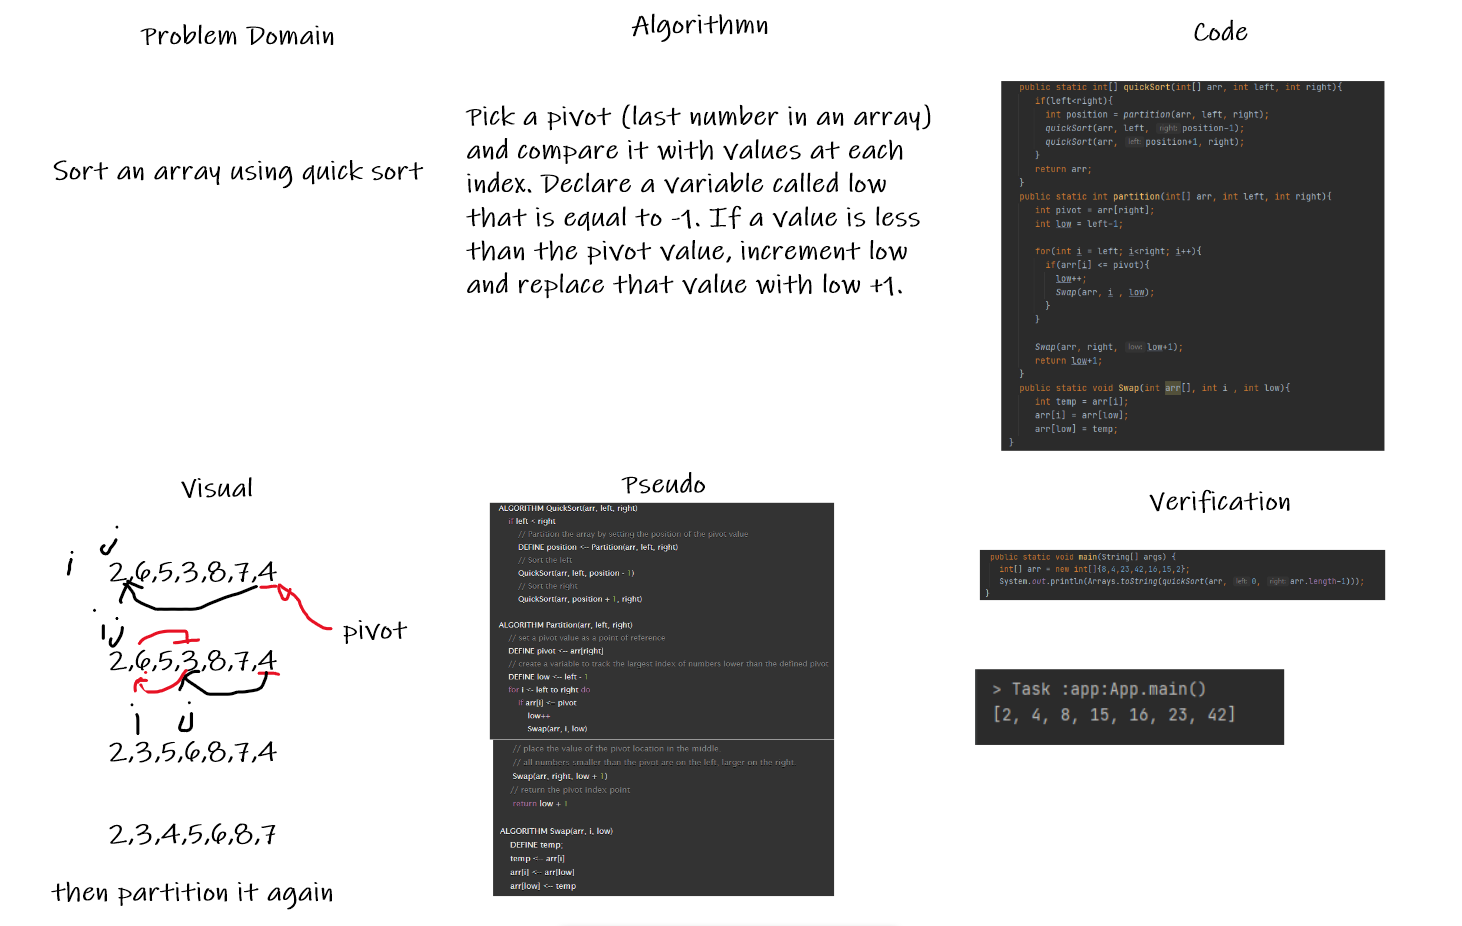
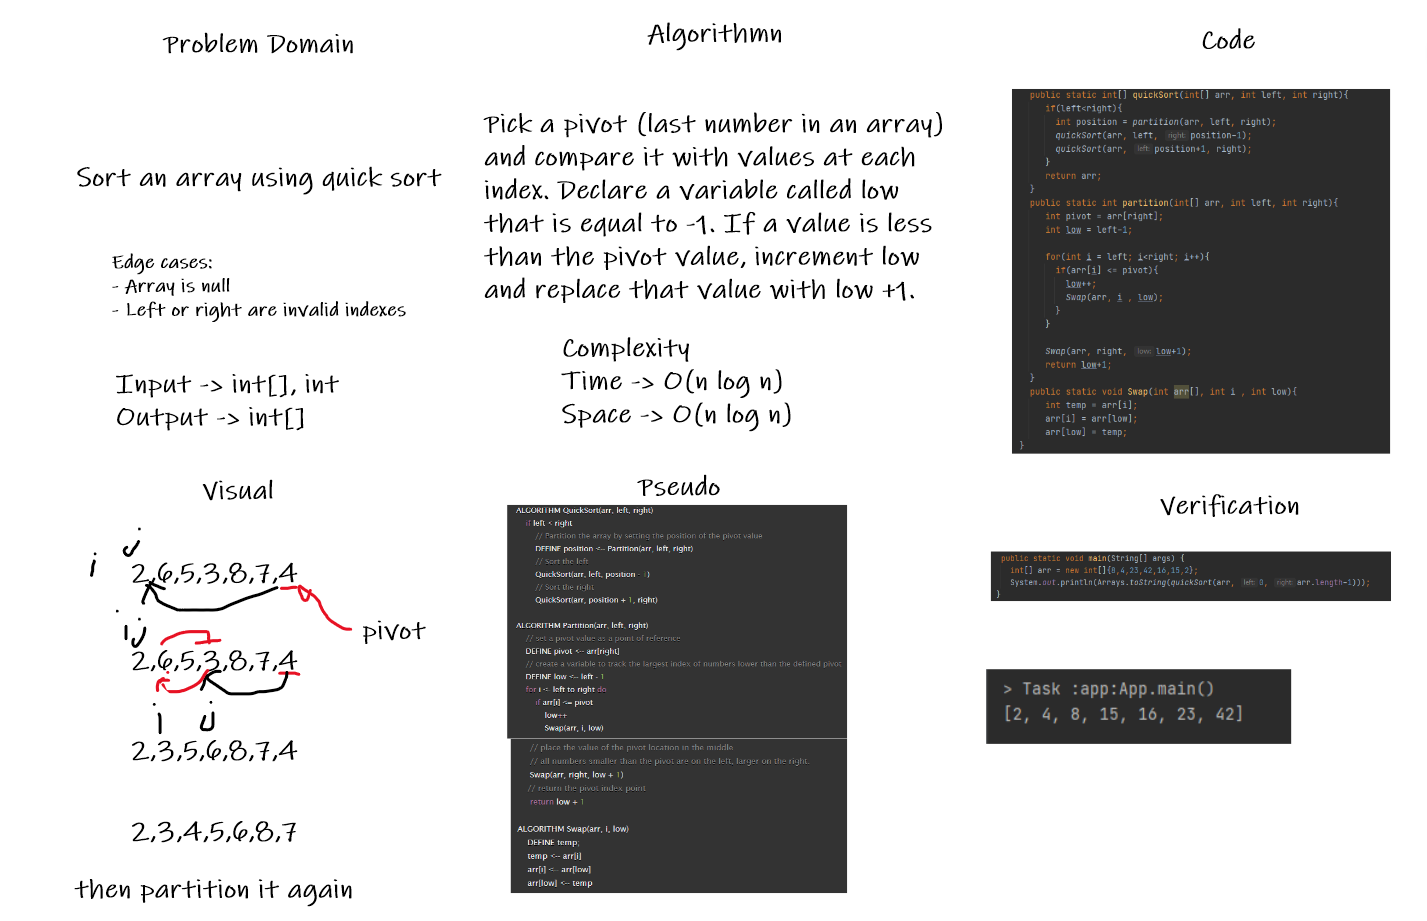
updated readme file, update whiteboard, and added blog

diff --git a/blogs/code-challenge-28/BLOG-28.md b/blogs/code-challenge-28/BLOG-28.md
@@ -1,0 +1,64 @@
+# Quick Sort
+
+Quick sort is a divide-and-conquer algorithmn. First, a pivot is selected (usually last value in an array), then the array is partitioned into two subarrays where the left subarray where the left subarray must contain values less than the pivot and right subarray must contain values greater than the pivot
+
+Pseudocode
+
+        ALGORITHM QuickSort(arr, left, right)
+            if left < right
+                // Partition the array by setting the position of the pivot value 
+                DEFINE position <-- Partition(arr, left, right)
+                // Sort the left
+                QuickSort(arr, left, position - 1)
+                // Sort the right
+                QuickSort(arr, position + 1, right)
+
+        ALGORITHM Partition(arr, left, right)
+            // set a pivot value as a point of reference
+            DEFINE pivot <-- arr[right]
+            // create a variable to track the largest index of numbers lower than the defined pivot
+            DEFINE low <-- left - 1
+            for i <- left to right do
+                if arr[i] <= pivot
+                    low++
+                    Swap(arr, i, low)
+
+            // place the value of the pivot location in the middle.
+            // all numbers smaller than the pivot are on the left, larger on the right. 
+            Swap(arr, right, low + 1)
+            // return the pivot index point
+            return low + 1
+
+        ALGORITHM Swap(arr, i, low)
+            DEFINE temp;
+            temp <-- arr[i]
+            arr[i] <-- arr[low]
+            arr[low] <-- temp
+
+## Trace
+
+Sample Array: [2,3,4,1]
+
+Pass 1:
+
+![altText](./pass_1_quick_sort.PNG)
+
+Pass 2:
+
+![altText](./pass_2_quick_sort.PNG)
+
+Pass 3:
+
+![altText](./pass_3_quick_sort.PNG)
+
+Pass 3:
+
+![altText](./pass_4_quick_sort.PNG)
+
+## Efficency
+
+Time: O(n log n)
+
+The method includes dividing an array into subarrays
+
+Space: O(n log n)

diff --git a/README.md b/README.md
@@ -117,7 +117,8 @@ Sort an array using the quick sort method
 Pick a pivot (last number in an array)and compare it with values at each index. Declare a variable called low that is equal to -1. If a value is less than the pivot value, increment low and replace that value with low +1.
 
 ### Solution
-[Code Challenge 28 whiteboard](assets/code_challenge_28_whiteboard.PNG)
+- [Code Challenge 28 whiteboard](assets/code_challenge_28_whiteboard.PNG)
+- [Blog - Code Challenge 28](./blogs/code-challenge-28/BLOG-28.md)
 
 ## Repeated Words
 
@@ -476,3 +477,19 @@ Space complexity -> O(N)
 ### Solution
 
 - [Code Challenge 12 whiteboard](./assets/code_challenge_12_whiteboard.PNG)
+
+### Challenge (Code challenge 28)
+
+Sort an array using quick sort method
+
+### Approach & Efficiency
+
+Pick a pivot (last number in an array)and compare it with values at each index. Declare a variable called low that is equal to -1. If a value is less than the pivot value, increment low and replace that value with low +1.
+
+Time complexity -> O(n log n)
+Space complexity -> O(n log n)
+
+### Solution
+
+- [Code Challenge 28 whiteboard](./assets/code_challenge_28_whiteboard.PNG)
+- [Blog - Code Challenge 28](./blogs/code-challenge-28/BLOG-28.md)
